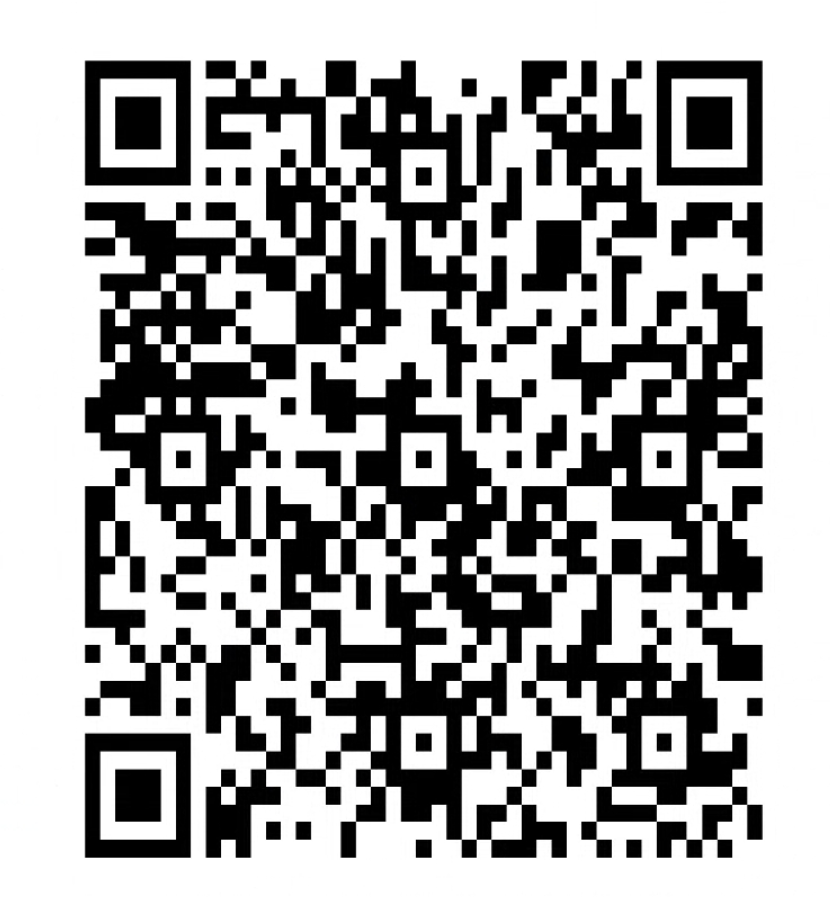
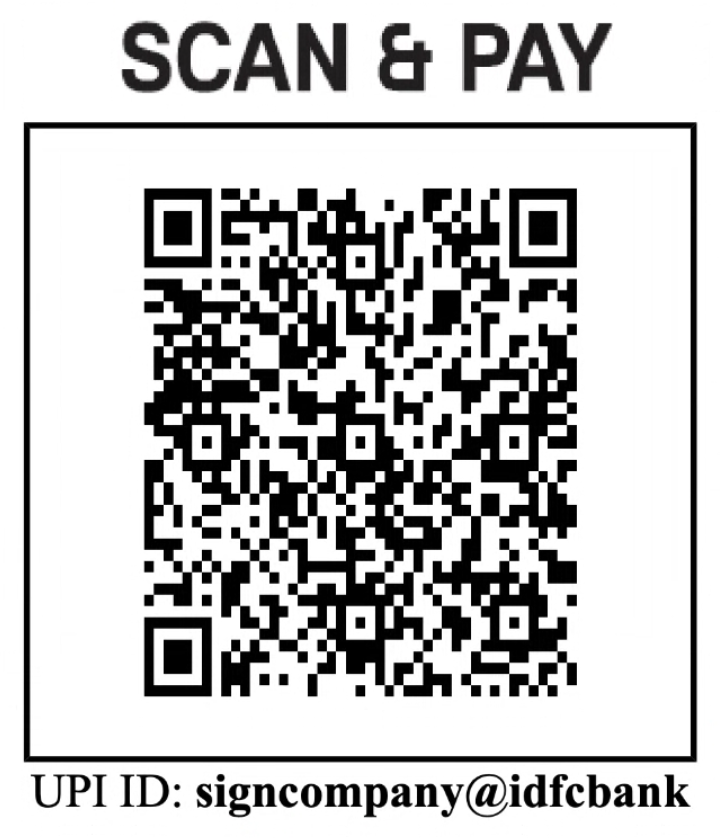
up

diff --git a/src/pages/orders/tabs/SignageItemsTab.jsx b/src/pages/orders/tabs/SignageItemsTab.jsx
@@ -89,7 +89,7 @@ export default function SignageItemsTab({ orderId, customerGstin, setCustomerGst
       netTotal,
       gst,
       grandTotal,
-      customerGstin
+      customer, // pass full customer object
     };
     const pdfWindow = window.open('', '_blank');
     if (!pdfWindow) {
@@ -297,9 +297,9 @@ export default function SignageItemsTab({ orderId, customerGstin, setCustomerGst
           </div>
           <div style='text-align: right; font-size: 12px;'>
             <div style='font-weight: bold;'>Bill To:</div>
-            <div>__________________________</div>
-            <div>__________________________</div>
-            <div>__________________________</div>
+            <div>${customer?.name || '-'}</div>
+            <div>${customer?.address || '-'}</div>
+            <div>${customer?.gstin ? `GSTIN: ${customer.gstin.toUpperCase()}` : '-'}</div>
           </div>
         </div>
         <table style='width: 100%; border-collapse: collapse; font-size: 12px; margin-bottom: 18px; box-sizing: border-box;'>
@@ -361,11 +361,16 @@ export default function SignageItemsTab({ orderId, customerGstin, setCustomerGst
         </div>
         <div style='margin-bottom: 16px; font-size: 12px;'>
           <div style='font-weight: bold; text-decoration: underline; color: #0a3d62; margin-bottom: 4px;'>Payment Details</div>
-          <div>Account Name: <b>Sign Company</b></div>
-          <div>Account Number: <b>59986534909</b></div>
-          <div>IFSC: <b>IDFB0080184</b></div>
-          <div>Bank: <b>IDFC FIRST, JEEVAN BIMA NAGAR BRANCH</b></div>
-          <div>UPI ID: <b>signcompany@idfcbank</b></div>
+          <div style='display: flex; align-items: center; gap: 12px;'>
+            <div>
+              <div>Account Name: <b>Sign Company</b></div>
+              <div>Account Number: <b>59986534909</b></div>
+              <div>IFSC: <b>IDFB0080184</b></div>
+              <div>Bank: <b>IDFC FIRST, JEEVAN BIMA NAGAR BRANCH</b></div>
+              <div>UPI ID: <b>signcompany@idfcbank</b></div>
+            </div>
+            <img src='/qr.png' alt='UPI QR' style='height: 80px; width: 80px; object-fit: contain; border: 1px solid #ccc; border-radius: 8px; background: #fff;' />
+          </div>
         </div>
         <div style='margin-bottom: 16px; font-size: 12px;'>
           <div style='font-weight: bold; text-decoration: underline; color: #0a3d62; margin-bottom: 4px;'>Terms & Conditions</div>
@@ -570,6 +575,7 @@ export default function SignageItemsTab({ orderId, customerGstin, setCustomerGst
               netTotal={netTotal}
               gst={gst}
               grandTotal={grandTotal}
+              customer={customer}
             />
           </div>
         )}

diff --git a/src/pages/orders/tabs/SignageItemsPdf.jsx b/src/pages/orders/tabs/SignageItemsPdf.jsx
@@ -3,15 +3,23 @@ import React from "react";
 export default function SignageItemsPdf({ items, allBoqs, discount, gstPercent, orderId, totalCost, netTotal, gst, grandTotal, customer = {}, jobName = "", po_number, po_date, version }) {
   return (
     <div style={{ fontFamily: 'sans-serif', maxWidth: 900, margin: '0 auto', color: '#222' }}>
-      <div style={{ display: 'flex', justifyContent: 'space-between', alignItems: 'center', marginBottom: 24 }}>
+      <div style={{ display: 'flex', justifyContent: 'space-between', alignItems: 'flex-start', marginBottom: 24 }}>
         <div>
           <img src="/logo.png" alt="Sign Company Logo" style={{ height: 60, marginBottom: 8 }} />
           <div style={{ fontWeight: 'bold', fontSize: 22 }}>Sign Company</div>
           <div style={{ fontSize: 14 }}>Shed #7, No.120, Malleshpalya Main Road, New Thippasandra Post, Bangalore - 560 075</div>
           <div style={{ fontSize: 14 }}>M +91 8431505007</div>
         </div>
-        <div style={{ textAlign: 'right', fontSize: 18, fontWeight: 'bold' }}>
-          Estimate No: {orderId}.{version || 1}.{new Date(po_date || Date.now()).getFullYear()}
+        <div style={{ textAlign: 'right', minWidth: 260 }}>
+          <div style={{ fontSize: 18, fontWeight: 'bold' }}>
+            Estimate No: {orderId}.{version || 1}.{new Date(po_date || Date.now()).getFullYear()}
+          </div>
+          <div style={{ marginTop: 16, fontSize: 14, fontWeight: 'normal', textAlign: 'left', border: '1px solid #eee', borderRadius: 6, padding: 8, background: '#fafafa' }}>
+            <div style={{ fontWeight: 'bold', textDecoration: 'underline', marginBottom: 2 }}>Bill To</div>
+            <div>{customer?.name || '-'}</div>
+            <div>{customer?.address || '-'}</div>
+            <div>{customer?.gstin ? `GSTIN: ${customer.gstin.toUpperCase()}` : '-'}</div>
+          </div>
         </div>
       </div>
       {/* Customer Info Section */}
@@ -109,7 +117,9 @@ export default function SignageItemsPdf({ items, allBoqs, discount, gstPercent, 
             <div>Branch: JEEVAN BIMA NAGAR BRANCH</div>
             <div>UPI ID: signcompany@idfcbank</div>
           </div>
-          <img src="/qr.png" alt="UPI QR" style={{ height: 80, width: 80, objectFit: 'contain', border: '1px solid #ccc', borderRadius: 8, background: '#fff' }} />
+          <div style={{ display: 'flex', alignItems: 'center', height: 80 }}>
+            <img src="/qr.png" alt="UPI QR" style={{ height: 80, width: 80, objectFit: 'contain', border: '1px solid #ccc', borderRadius: 8, background: '#fff' }} />
+          </div>
         </div>
       </div>
       <div style={{ marginBottom: 16 }}>

diff --git a/src/pages/orders/tabs/InvoicePdf.jsx b/src/pages/orders/tabs/InvoicePdf.jsx
@@ -46,8 +46,8 @@ export default function InvoicePdf({ invoice, customer, items }) {
       <div style={{ display: 'flex', borderBottom: '1px solid #222', fontSize: 13 }}>
         <div style={{ flex: 2, borderRight: '1px solid #222', padding: 8 }}>
           <div style={{ fontWeight: 'bold' }}>Bill to</div>
-          <div>{customer.name}</div>
-          <div style={{ whiteSpace: 'pre-line' }}>{customer.address}</div>
+          <div>{customer.name || '-'}</div>
+          <div style={{ whiteSpace: 'pre-line' }}>{customer.address || '-'}</div>
           <div><b>GSTIN No:-</b> {(customer.gstin || '').toUpperCase()}</div>
           {customer.pan && <div>PAN: {(customer.pan || '').toUpperCase()}</div>}
         </div>
